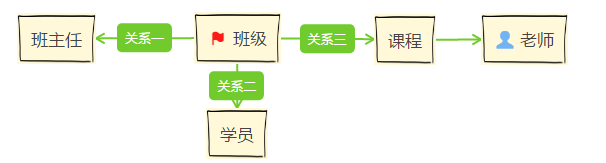
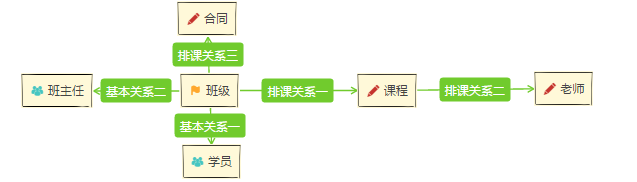
Signed-off-by: lieo paike1116+zxpp 班级合同关系

diff --git a/WebContent/easyui_xpp/6a4.html b/WebContent/easyui_xpp/6a4.html
@@ -1,0 +1,320 @@
+<!DOCTYPE html>
+<html>
+<head>
+	<meta charset="UTF-8">
+	<title>关系创建</title>
+	
+	<!-- <script type="text/javascript" src="../xppjs/jquery.js"></script> -->
+	<script type="text/javascript" src="jquery-easyui-136/jquery.min.js"></script>
+	<script type="text/javascript" src="jquery-easyui-136/jquery.easyui.min.js"></script>
+	<script type="text/javascript" src="jquery-easyui-136/locale/easyui-lang-zh_CN.js"></script>
+    <script type="text/javascript" src="DataTables/datatables.js"></script>
+	<script type="text/javascript" src="../xppjs/jquery.serialize-object.js"></script>
+	
+	<link   rel="stylesheet" type="text/css" href="jquery-easyui-136/themes/gray/easyui.css"/>
+	<link   rel="stylesheet" type="text/css" href="jquery-easyui-136/themes/icon.css"/>
+    <link   rel="stylesheet" type="text/css" href="DataTables/datatables.css"/>
+
+
+	<script type="text/javascript">
+        var table_pk3;//全局变量
+		 $(document).ready(function(){
+        //------------步骤0--------------------
+        //4个表格初始化
+        //步骤1,展示列表数据
+        var dataSet = [{"uuid":"空","className":"初始为空","contrName":"初始为空"}];
+        var table_pk3 = $('#G3_tb5').DataTable({
+                data: dataSet,
+                "columns": [
+                    { "data": "className" },
+                    { "data": "contrName" }
+                ]
+            } );
+
+
+
+        //------------步骤一--------------------
+		 	//步骤1，加载所有下拉框
+    	$( "#btn_combo" ).click(function() { 
+        //获取班级列表数据，并取出其中的数组类型
+        var send_edit_data = {};
+            // send_edit_data.uuid = delRowData.uuid;
+            send_edit_data.id = "001";
+            send_edit_data.claUuid = "名字";
+            //获取关系一班级下拉框数据	
+            $.ajax({
+                
+                url:"/sdpk/aaCla?qqiu=list",
+                type: "POST",
+                //data: JSON.stringify(param),
+                data: JSON.stringify(send_edit_data),
+                contentType: "application/json;charset=UTF-8", 
+                success:function(result){
+                //步骤1_a1，完成下拉框L3
+                huiFunc1(result);
+                }
+             
+            });
+
+          //获取合同下拉框数据L4和R3
+          var send_R3 = {};
+            send_R3.id = "stu01";
+            $.ajax({
+                
+                url:"/sdpk/aaContract?qqiu=list",
+                type: "POST",
+                //data: JSON.stringify(param),
+                data: JSON.stringify(send_R3),
+                contentType: "application/json;charset=UTF-8", 
+                success:function(result){
+                //步骤1_a1，在步骤1的ajax的回调函数
+                huiFuncR3(result);
+                alert("下拉框加载完成");
+                }
+             
+            });
+
+
+
+
+    });//end 1 外圈 save_1 单击
+
+    	//步骤1_x1，在步骤1的回调,展示L1,L2,L3下拉框
+    function huiFunc1(result){
+    // alert("回调中");
+    var a2obj = {};
+    a2obj = JSON.parse(result);
+    var a2data = a2obj.data;
+    $('#L3cc').combobox({
+               data: a2data,
+                valueField: 'uuid',
+                textField: 'name',
+                selectOnNavigation: false,
+
+                //选择事件，选重的时候同时加载数据表
+                onSelect: function(rec){
+                    var cUuid = rec.uuid;
+                    var newUrl = '/sdpk/aaClass_Contract?qqiu=getListBycla&classUuid='+cUuid;
+                    console.log(newUrl);
+                    table_pk3.ajax.url(String(newUrl)).load();
+                    // alert("ajax重载了");
+
+                }//end  方法onSelect
+            });
+
+    }// end 1_x1 外圈 
+
+
+    //步骤1_xR3，在步骤1的ajax的回调函数,展示列表数据
+    function huiFuncR3(result){
+    // alert("回调中");
+    var objR3 = {};
+    objR3 = JSON.parse(result);
+    var a2dataR3 = objR3.data;
+    $('#R3dd').combobox({
+               data: a2dataR3,
+                valueField: 'uuid',
+                textField: 'cNum',
+                selectOnNavigation: false
+            });
+
+    }// end 1_x1 外圈 
+
+
+    //------------步骤二--------------------
+    //保存一按钮；新增班级和班主任关联
+    $( "#save_3" ).click(function() { 
+
+        var sendSave_3 = {};
+        sendSave_3.classUuid = $('#L3cc').combobox('getValue');
+        sendSave_3.courseUuid = $('#R3dd').combobox('getValue');
+
+        $.ajax({
+                
+                url:"/sdpk/aaClass_Contract?qqiu=add",
+                type: "POST",
+                //data: JSON.stringify(param),
+                data: JSON.stringify(sendSave_3),
+                contentType: "application/json;charset=UTF-8", 
+                success:function(result){
+                var obj = {};
+                obj = JSON.parse(result);
+                alert(obj.message);
+                table_pk3.ajax.reload();
+   
+                // huiFunc_submit(result);
+                }
+             
+            });
+
+
+    });//end 步骤二 外圈 submitForm
+
+    //------------步骤三--------------------
+    //关系三列表选择
+    var selectTable3 = $('#G3_tb5 tbody').on( 'click', 'tr', function () {
+        if ( $(this).hasClass('selected') ) {
+            $(this).removeClass('selected');
+        }
+        else {
+            table_pk3.$('tr.selected').removeClass('selected');
+            $(this).addClass('selected');
+        }//end if 
+
+    } );//end 2 外圈 $('#G1_tb2 tbody').on
+
+    //------------步骤四--------------------
+    //关系三删除按钮单击事件
+    $('#del_3').click( function () {
+
+        //要初始化一个对象，不然会报undifine未定义错误
+        var delRowData = {};
+        //获取选择那一行的数据
+         delRowData = table_rela3.row('.selected').data();
+         //获取选择行中的uuid字段
+         var Auuid = delRowData.uuid;
+         
+         //post请求体传给后台的js对象
+         var send_data = {};
+         send_data.uuid = Auuid;
+         // alert( "选择的行的uuid: "+send_data);
+         //调用ajax方法传给后台接口
+         $.ajax({
+                
+                url:"/sdpk/aaClass_Contract?qqiu=delete",
+                type: "POST",
+                //data: JSON.stringify(param),
+                data: JSON.stringify(send_data),
+                contentType: "application/json;charset=UTF-8", 
+                success:function(result){
+                    table_pk3.ajax.reload();
+                    alert("删除完成");
+
+                }
+             
+            });//end $.ajax
+
+         table_pk3.row('.selected').remove().draw( false );//图形删除，没有传到后台接口
+
+    } );//end 4 外圈 $('#delbut').click
+
+
+
+    
+
+
+
+});//end 最外层 $(document).ready
+	</script>
+
+
+	<style type="text/css">
+		*{
+    		font-family:"黑体";
+    	}
+	</style>
+</head>
+<body>
+	
+	<div id="fen_container"  style="width:977px;height: 690px;background-color:#FFFFFF;"> 
+
+		<div id="ye_1_blank" style="background-color:#FFFFFF;width:977px;height:54px;float:left;"></div>
+		<div id="ye_2_blank" style="background-color:#FFFFFF;width:54px;height:636px;float:left;"></div>
+
+		<div id="ye_3_text_container" style="box-sizing:border-box;background-color:#FFFFFF;width:923px;height:636px;float:left;">
+			<div id="header_1" style="background-color:#FFFFFF;width:923px;height: 28px;float:left;">
+            <strong style="float:left;box-sizing:border-box;font-size:24px;margin-bottom:0;text-align:left;">新增关系</strong></div>
+
+            <!-- 划线 --><div id="header_2" style="background-color:#FFFFFF;width:923px;height: 8px;float:left;border-style:solid; border-bottom-width:1px;border-left: none;border-top: none;border-right: none;">
+            </div>
+            <!-- 关系图片 -->
+            <div id="header_1" style="background-color:#FFFFFF;background-image: url(../icon_xpp/6a1_a.png);background-repeat:no-repeat;width:923px;height: 200px;float:left;"></div>
+
+            
+
+            <div id="header_1" style="background-color:#FFFFFF;width:923px;height: 28px;float:left;">
+            <strong style="float:left;box-sizing:border-box;font-size:24px;margin-bottom:0;text-align:left;">排课关系三</strong></div>
+
+            <!-- 划线 --><div id="header_2" style="background-color:#FFFFFF;width:923px;height: 18px;float:left;">
+            </div>
+
+            <!-- 留空按钮 --> 
+            <div style="width: 923px;height: 22px;float:left;">
+            <button id="btn_combo" style="float:left;box-sizing:border-box;font-size:13px;margin-bottom:0;text-align:left;background-color: #3CDA9E">初始化下拉框</button>
+
+            </div><!-- 留空按钮结束 --> 
+
+            <div id="header_3_form" style="background-color:#FFFFFF;width:923px;height: 560px;float:left;">
+                    <!-- start  3行布局 -->
+                    <table id="header_3_tb1" style="float:left;box-sizing:border-box;margin-bottom:0;border-collapse:collapse">
+
+                    <tr style="width:923px;height: 28px; "></tr>
+                    <!-- 第二行 -->
+                    <tr>
+                    <td align="center" style="text-align:left;background-color:#FFFFFF;width:70px;height:39px;box-sizing:border-box;font-size:16px;color: red;">班级:</td>
+                    <td>
+                    <input id="L3cc"  name="" class="easyui-combobox" style="height: 39px;width: 194px;font-size:16px;">
+                    </td>  
+
+                    <td style="height: 39px;width: 60px;background-color:#FFFFFF;"></td>
+
+                    <td align="center" style="text-align:left;background-color:#FFFFFF;width:70px;height:39px;box-sizing:border-box;font-size:16px;color: red;">合同:</td>
+                    <td>
+                    <input id="R3dd" type="" name="" class="easyui-combobox" style="height: 39px;width: 194px;font-size:16px;">
+                    </td>
+
+                    <td style="height: 39px;width: 60px;background-color:#FFFFFF;"></td>
+
+                    <td align="center" style="text-align:left;background-color:#FFFFFF;width:70px;height:39px;box-sizing:border-box;font-size:16px;"></td>
+                    <td style="height: 39px;width: 194px;font-size:16px;">
+                    <button id="save_3" style="float:left;box-sizing:border-box;font-size:13px;margin-bottom:0;text-align:left;">保存</button>
+                    <button id="del_3" style="float:right;box-sizing:border-box;font-size:13px;margin-bottom:0;text-align:left;">删除</button>
+                    </td>
+                    </tr>
+                    <!-- 第二行结束 -->
+
+                    <!-- 留空开始 -->
+                    <tr style="width:923px;height: 28px; "></tr>
+                    <!-- 留空结束 -->
+
+                    </table><!-- end id=header_3_tb1 -->
+                    <!-- end  3行布局 -->
+
+
+            		<!-- 包裹关系三列表，关系四列表 start-->
+            		<div id="HasG3G4" style="background-color:#FFFFFF;width:923px;height: 360px;float:left;">
+            		<table id="G3_tb5"  style="width: 923px;float:left;box-sizing:border-box;margin-bottom:0;border-collapse:collapse">
+
+                    <!-- 留空开始 -->
+                    <tr style="width:923px;height: 28px; "></tr>
+                    <!-- 留空结束 -->
+            		<!--start 表头 -->
+                        <thead>
+                            <tr>
+                                <th>班级</th>
+                                <th>合同</th>
+                            </tr>
+                        </thead>
+                        <!--end 表头 -->
+                        <!-- start 表尾 -->
+                        <tfoot>
+                            <tr>
+                                <th>班级</th>
+                                <th>合同</th>
+                            </tr>
+                        </tfoot>
+                        <!-- end 表尾 -->
+					<!-- 留空开始 -->
+	    			<tr style="width:923px;height: 28px; "></tr>
+					<!-- 留空结束 -->
+            		</table> <!-- end id为 G3_tb5 -->
+
+            		</div> <!-- 包裹关系三列表，关系四列表 结束-->
+            </div><!-- end div  header_3_form-->
+
+		</div><!-- end div  ye_3_text_container-->
+
+
+	</div><!-- end div  id="fen_container"-->
+</body>
+</html>
